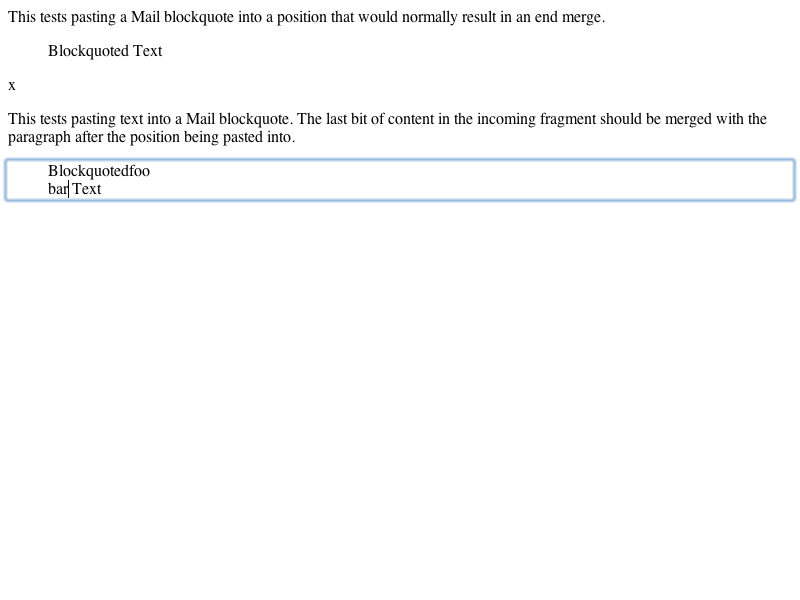
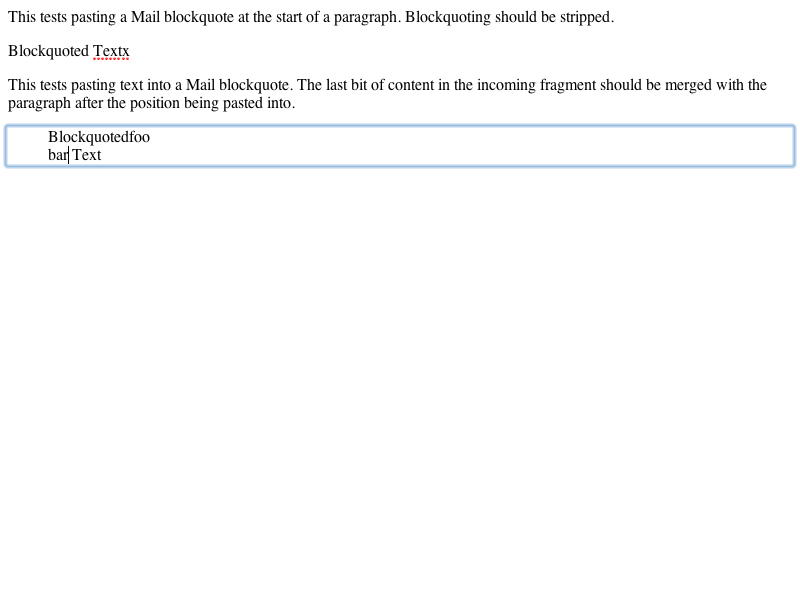
LayoutTests:
Reviewed by harrison
        
        <rdar://problem/4237467> REGRESSION: Pasting word from quoted text quotes the destination
        <rdar://problem/4017358> quoted text is wrong color, when pasted as quotation

        Fixed:
        * editing/pasteboard/merge-end-blockquote-expected.checksum:
        * editing/pasteboard/merge-end-blockquote-expected.png:
        * editing/pasteboard/merge-end-blockquote-expected.txt:
        * editing/pasteboard/merge-end-blockquote.html:
        
        Added:
        * editing/pasteboard/paste-blockquote-1-expected.checksum: Added.
        * editing/pasteboard/paste-blockquote-1-expected.png: Added.
        * editing/pasteboard/paste-blockquote-1-expected.txt: Added.
        * editing/pasteboard/paste-blockquote-1.html: Added.
        * editing/pasteboard/paste-blockquote-2-expected.checksum: Added.
        * editing/pasteboard/paste-blockquote-2-expected.png: Added.
        * editing/pasteboard/paste-blockquote-2-expected.txt: Added.
        * editing/pasteboard/paste-blockquote-2.html: Added.
        * editing/pasteboard/paste-blockquote-3-expected.checksum: Added.
        * editing/pasteboard/paste-blockquote-3-expected.png: Added.
        * editing/pasteboard/paste-blockquote-3-expected.txt: Added.
        * editing/pasteboard/paste-blockquote-3.html: Added.

WebCore:

        Reviewed by harrison
        
        <rdar://problem/4237467> REGRESSION: Pasting word from quoted text quotes the destination
[…]

Changed region(s): [[0.0, 0.06, 1.0, 0.36], [0.3125, 0.0, 0.75, 0.06]]

diff --git a/LayoutTests/editing/pasteboard/paste-blockquote-3.html b/LayoutTests/editing/pasteboard/paste-blockquote-3.html
@@ -1,0 +1,25 @@
+<style>
+blockquote {
+    color: blue;
+    border-left: 2px solid blue;
+    margin: 0px;
+    padding: 0 0 0 20px;
+}
+</style>
+
+<p>This tests pasting a blockquote into the middle of a paragraph.</p>
+<div id="div" contenteditable="true">This should not be blockquoted. This should not be blockquoted.</div>
+
+<script>
+var sel = window.getSelection();
+var div = document.getElementById("div");
+
+sel.setPosition(div, 0);
+sel.modify("move", "forward", "word");
+sel.modify("move", "forward", "word");
+sel.modify("move", "forward", "word");
+sel.modify("move", "forward", "word");
+sel.modify("move", "forward", "word");
+sel.modify("move", "forward", "character");
+document.execCommand("InsertHTML", false, "<blockquote type='cite'>&nbsp;This should not be blockquoted.<br>This should be blockquoted.<br>This should not be blockquoted.</blockquote>");
+</script>

diff --git a/LayoutTests/editing/pasteboard/paste-blockquote-2.html b/LayoutTests/editing/pasteboard/paste-blockquote-2.html
@@ -1,0 +1,19 @@
+<style>
+blockquote {
+    color: blue;
+    border-left: 2px solid blue;
+    margin: 0px;
+    padding: 0 0 0 20px;
+}
+</style>
+
+<p>This tests pasting a blockquote at the start of a paragraph.</p>
+<div id="div" contenteditable="true">&nbsp;This should not be blockquoted.</div>
+
+<script>
+var sel = window.getSelection();
+var div = document.getElementById("div");
+
+sel.setPosition(div, 0);
+document.execCommand("InsertHTML", false, "<blockquote type='cite'>This should not be blockquoted.</blockquote>");
+</script>

diff --git a/LayoutTests/editing/pasteboard/paste-blockquote-1.html b/LayoutTests/editing/pasteboard/paste-blockquote-1.html
@@ -1,0 +1,19 @@
+<style>
+blockquote {
+    color: blue;
+    border-left: 2px solid blue;
+    margin: 0px;
+    padding: 0 0 0 20px;
+}
+</style>
+
+<p>This tests pasting a blockquote into an empty paragraph.</p>
+<div id="div" contenteditable="true"></div>
+
+<script>
+var sel = window.getSelection();
+var div = document.getElementById("div");
+
+sel.setPosition(div, 0);
+document.execCommand("InsertHTML", false, "<blockquote type='cite'>This should be blockquoted.</blockquote>");
+</script>

diff --git a/LayoutTests/editing/pasteboard/merge-end-blockquote.html b/LayoutTests/editing/pasteboard/merge-end-blockquote.html
@@ -2,7 +2,7 @@
 if (window.layoutTestController)
      layoutTestController.dumpEditingCallbacks();
 </script>
-<p>This tests pasting a Mail blockquote into a position that would normally result in an end merge.</p>
+<p>This tests pasting a Mail blockquote at the start of a paragraph.  Blockquoting should be stripped.</p>
 <div id="test1" contenteditable="true">x</div>
 
 <script type="text/javascript" src="../editing.js"></script>

diff --git a/WebCore/editing/markup.cpp b/WebCore/editing/markup.cpp
@@ -118,6 +118,34 @@ static DeprecatedString renderedText(const Node *node, const Range *range)
     return plainText(&r);
 }
 
+static PassRefPtr<CSSMutableStyleDeclaration> styleFromMatchedRulesForElement(Element* element, bool authorOnly = true)
+{
+    RefPtr<CSSMutableStyleDeclaration> style = new CSSMutableStyleDeclaration();
+    RefPtr<CSSRuleList> matchedRules = element->document()->styleSelector()->styleRulesForElement(element, authorOnly);
+    if (matchedRules) {
+        for (unsigned i = 0; i < matchedRules->length(); i++) {
+            if (matchedRules->item(i)->type() == CSSRule::STYLE_RULE) {
+                RefPtr<CSSMutableStyleDeclaration> s = static_cast<CSSStyleRule*>(matchedRules->item(i))->style();
+                style->merge(s.get(), true);
+            }
+        }
+    }
+    
+    return style.release();
+}
+
+static void removeEnclosingMailBlockquoteStyle(CSSMutableStyleDeclaration* style, Node* node)
+{
+    Node* blockquote = nearestMailBlockquote(node);
+    if (!blockquote || !blockquote->parentNode())
+        return;
+            
+    RefPtr<CSSMutableStyleDeclaration> parentStyle = Position(blockquote->parentNode(), 0).computedStyle()->copyInheritableProperties();
+    RefPtr<CSSMutableStyleDeclaration> blockquoteStyle = Position(blockquote, 0).computedStyle()->copyInheritableProperties();
+    parentStyle->diff(blockquoteStyle.get());
+    blockquoteStyle->diff(style);
+}
+
 static DeprecatedString startMarkup(const Node *node, const Range *range, EAnnotateForInterchange annotate, CSSMutableStyleDeclaration *defaultStyle)
 {
     bool documentIsHTML = node->document()->isHTMLDocument();
@@ -140,6 +168,11 @@ static DeprecatedString startMarkup(const Node *node, const Range *range, EAnnot
                 if (element) {
                     RefPtr<CSSComputedStyleDeclaration> computedStyle = Position(element, 0).computedStyle();
                     RefPtr<CSSMutableStyleDeclaration> style = computedStyle->copyInheritableProperties();
+                    // Styles that Mail blockquotes contribute should only be placed on the Mail blockquote, to help
+                    // us differentiate those styles from ones that the user has applied.  This helps us
+                    // get the color of content pasted into blockquotes right.
+                    removeEnclosingMailBlockquoteStyle(style.get(), const_cast<Node*>(node));
+                    
                     defaultStyle->diff(style.get());
                     if (style->length() > 0) {
                         // FIXME: Handle case where style->cssText() has illegal characters in it, like "
@@ -170,18 +203,16 @@ static DeprecatedString startMarkup(const Node *node, const Range *range, EAnnot
             const Element* el = static_cast<const Element*>(node);
             markup += el->nodeNamePreservingCase().deprecatedString();
             String additionalStyle;
-            if (defaultStyle && el->isHTMLElement()) {
+            if (defaultStyle && el->isHTMLElement() && !isMailBlockquote(node)) {
                 RefPtr<CSSComputedStyleDeclaration> computedStyle = Position(const_cast<Element*>(el), 0).computedStyle();
                 RefPtr<CSSMutableStyleDeclaration> style = computedStyle->copyInheritableProperties();
-                RefPtr<CSSRuleList> matchedRules = node->document()->styleSelector()->styleRulesForElement(const_cast<Element*>(el), true);
-                if (matchedRules) {
-                    for (unsigned i = 0; i < matchedRules->length(); i++) {
-                        if (matchedRules->item(i)->type() == CSSRule::STYLE_RULE) {
-                            RefPtr<CSSMutableStyleDeclaration> s = static_cast<CSSStyleRule*>(matchedRules->item(i))->style();
-                            style->merge(s.get(), true);
-                        }
-                    }
-                }
+                style->merge(styleFromMatchedRulesForElement(const_cast<Element*>(el)).get());
+                
+                // Styles that Mail blockquotes contribute should only be placed on the Mail blockquote, to help
+                // us differentiate those styles from ones that the user has applied.  This helps us
+                // get the color of content pasted into blockquotes right.
+                removeEnclosingMailBlockquoteStyle(style.get(), const_cast<Node*>(node));
+                
                 defaultStyle->diff(style.get());
                 if (style->length() > 0) {
                     CSSMutableStyleDeclaration *inlineStyleDecl = static_cast<const HTMLElement*>(el)->inlineStyleDecl();
@@ -497,15 +528,8 @@ DeprecatedString createMarkup(const Range *range, Vector<Node*>* nodes, EAnnotat
     if (root && *Selection::selectionFromContentsOfNode(root).toRange() == *range) {
         CSSMutableStyleDeclaration* inlineStyleDecl = static_cast<HTMLElement*>(root)->inlineStyleDecl();
         RefPtr<CSSMutableStyleDeclaration> style = inlineStyleDecl ? inlineStyleDecl->copy() : new CSSMutableStyleDeclaration();
-        RefPtr<CSSRuleList> matchedRules = root->document()->styleSelector()->styleRulesForElement(static_cast<Element*>(root), true);
-        if (matchedRules) {
-            for (unsigned i = 0; i < matchedRules->length(); i++) {
-                if (matchedRules->item(i)->type() == CSSRule::STYLE_RULE) {
-                    RefPtr<CSSMutableStyleDeclaration> s = static_cast<CSSStyleRule*>(matchedRules->item(i))->style();
-                    style->merge(s.get(), true);
-                }
-            }
-        }
+        style->merge(styleFromMatchedRulesForElement(static_cast<Element*>(root)).get());
+        
         defaultStyle->diff(style.get());
         
         // Bring the background attribute over, but not as an attribute because a background attribute on a div

diff --git a/WebCore/editing/ReplaceSelectionCommand.cpp b/WebCore/editing/ReplaceSelectionCommand.cpp
@@ -312,6 +312,21 @@ bool ReplaceSelectionCommand::shouldMergeEnd(bool selectionEndWasEndOfParagraph)
            shouldMerge(endOfInsertedContent, next);
 }
 
+static bool isMailPasteAsQuotationNode(Node* node)
+{
+    return node && node->hasTagName(blockquoteTag) && node->isElementNode() && static_cast<Element*>(node)->getAttribute(classAttr) == ApplePasteAsQuotation;
+}
+
+// Virtual method used so that ReplaceSelectionCommand can update the node's it tracks.
+void ReplaceSelectionCommand::removeNodePreservingChildren(Node* node)
+{
+    if (m_firstNodeInserted == node)
+        m_firstNodeInserted = node->traverseNextNode();
+    if (m_lastNodeInserted == node)
+        m_lastNodeInserted = node->lastChild() ? node->lastChild() : node->traverseNextSibling();
+    CompositeEditCommand::removeNodePreservingChildren(node);
+}
+
 bool ReplaceSelectionCommand::shouldMerge(const VisiblePosition& from, const VisiblePosition& to)
 {
     if (from.isNull() || to.isNull())
@@ -320,8 +335,8 @@ bool ReplaceSelectionCommand::shouldMerge(const VisiblePosition& from, const Vis
     Node* fromNode = from.deepEquivalent().node();
     Node* toNode = to.deepEquivalent().node();
     
-    return nearestMailBlockquote(fromNode) == nearestMailBlockquote(toNode) &&
-           !enclosingBlock(fromNode)->hasTagName(blockquoteTag) &&
+    return !enclosingNodeOfType(fromNode, &isMailPasteAsQuotationNode) &&
+           (!enclosingBlock(fromNode)->hasTagName(blockquoteTag) || isMailBlockquote(enclosingBlock(fromNode)))  &&
            enclosingListChild(fromNode) == enclosingListChild(toNode) &&
            enclosingTableCell(fromNode) == enclosingTableCell(toNode) &&
            !(fromNode->renderer() && fromNode->renderer()->isTable()) &&
@@ -329,11 +344,18 @@ bool ReplaceSelectionCommand::shouldMerge(const VisiblePosition& from, const Vis
            !fromNode->hasTagName(hrTag) && !toNode->hasTagName(hrTag);
 }
 
-void ReplaceSelectionCommand::removeRedundantStyles()
+void ReplaceSelectionCommand::removeRedundantStyles(Node* mailBlockquoteEnclosingSelectionStart)
 {
     // There's usually a top level style span that holds the document's default style, push it down.
     Node* node = m_firstNodeInserted.get();
-    if (isStyleSpan(node)) {
+    if (isStyleSpan(node) && mailBlockquoteEnclosingSelectionStart) {
+        // Calculate the document default style.
+        RefPtr<CSSMutableStyleDeclaration> blockquoteStyle = Position(mailBlockquoteEnclosingSelectionStart, 0).computedStyle()->copyInheritableProperties();
+        RefPtr<CSSMutableStyleDeclaration> spanStyle = static_cast<HTMLElement*>(node)->inlineStyleDecl();
+        spanStyle->merge(blockquoteStyle.get());  
+    }
+    else if (isStyleSpan(node)) {
+    
         RefPtr<CSSMutableStyleDeclaration> parentStyle
             = Position(node, 0).computedStyle()->copyInheritableProperties();
 
@@ -360,11 +382,7 @@ void ReplaceSelectionCommand::removeRedundantStyles()
             }
             child = next;
         }
-
-        if (m_firstNodeInserted == node)
-            m_firstNodeInserted = node->firstChild();
-        if (m_lastNodeInserted == node)
-            m_lastNodeInserted = node->lastChild();
+        
         removeNodePreservingChildren(node);
     }
     
@@ -411,10 +429,6 @@ void ReplaceSelectionCommand::removeRedundantStyles()
                     || element->hasTagName(fontTag)
                     || element->hasTagName(iTag)
                     || element->hasTagName(uTag))) {
-            if (element == m_firstNodeInserted)
-                m_firstNodeInserted = element->traverseNextNode();
-            if (element == m_lastNodeInserted)
-                m_lastNodeInserted = element->traverseNextNode();
             removeNodePreservingChildren(element);
             continue;
         }
@@ -427,6 +441,13 @@ void ReplaceSelectionCommand::removeRedundantStyles()
             setNodeAttribute(element, styleAttr, inlineStyleDecl->cssText());
         }
     }
+}
+
+void ReplaceSelectionCommand::handlePasteAsQuotationNode()
+{
+    Node* node = m_firstNodeInserted.get();
+    if (isMailPasteAsQuotationNode(node))
+        static_cast<Element*>(node)->setAttribute(classAttr, "");
 }
 
 void ReplaceSelectionCommand::doApply()
@@ -454,6 +475,7 @@ void ReplaceSelectionCommand::doApply()
     
     bool selectionEndWasEndOfParagraph = isEndOfParagraph(visibleEnd);
     bool selectionStartWasStartOfParagraph = isStartOfParagraph(visibleStart);
+    Node* mailBlockquoteEnclosingSelectionStart = nearestMailBlockquote(visibleStart.deepEquivalent().node());
     
     Node* startBlock = enclosingBlock(visibleStart.deepEquivalent().node());
     
@@ -567,7 +589,7 @@ void ReplaceSelectionCommand::doApply()
         node = next;
     }
     
-    removeRedundantStyles();
+    removeRedundantStyles(mailBlockquoteEnclosingSelectionStart);
     
     endOfInsertedContent = VisiblePosition(Position(m_lastNodeInserted.get(), maxDeepOffset(m_lastNodeInserted.get())));
     startOfInsertedContent = VisiblePosition(Position(m_firstNodeInserted.get(), 0));
@@ -650,6 +672,8 @@ void ReplaceSelectionCommand::doApply()
                 m_firstNodeInserted = endingSelection().visibleStart().deepEquivalent().node();
         }
     }
+    
+    handlePasteAsQuotationNode();
     
     endOfInsertedContent = VisiblePosition(Position(m_lastNodeInserted.get(), maxDeepOffset(m_lastNodeInserted.get())));
     startOfInsertedContent = VisiblePosition(Position(m_firstNodeInserted.get(), 0));    

diff --git a/WebCore/editing/ReplaceSelectionCommand.h b/WebCore/editing/ReplaceSelectionCommand.h
@@ -89,7 +89,11 @@ private:
     bool shouldMergeEnd(bool);
     bool shouldMerge(const VisiblePosition&, const VisiblePosition&);
     
-    void removeRedundantStyles();
+    void removeRedundantStyles(Node*);
+    
+    void handlePasteAsQuotationNode();
+    
+    virtual void removeNodePreservingChildren(Node*);
 
     RefPtr<Node> m_firstNodeInserted;
     RefPtr<Node> m_lastNodeInserted;
